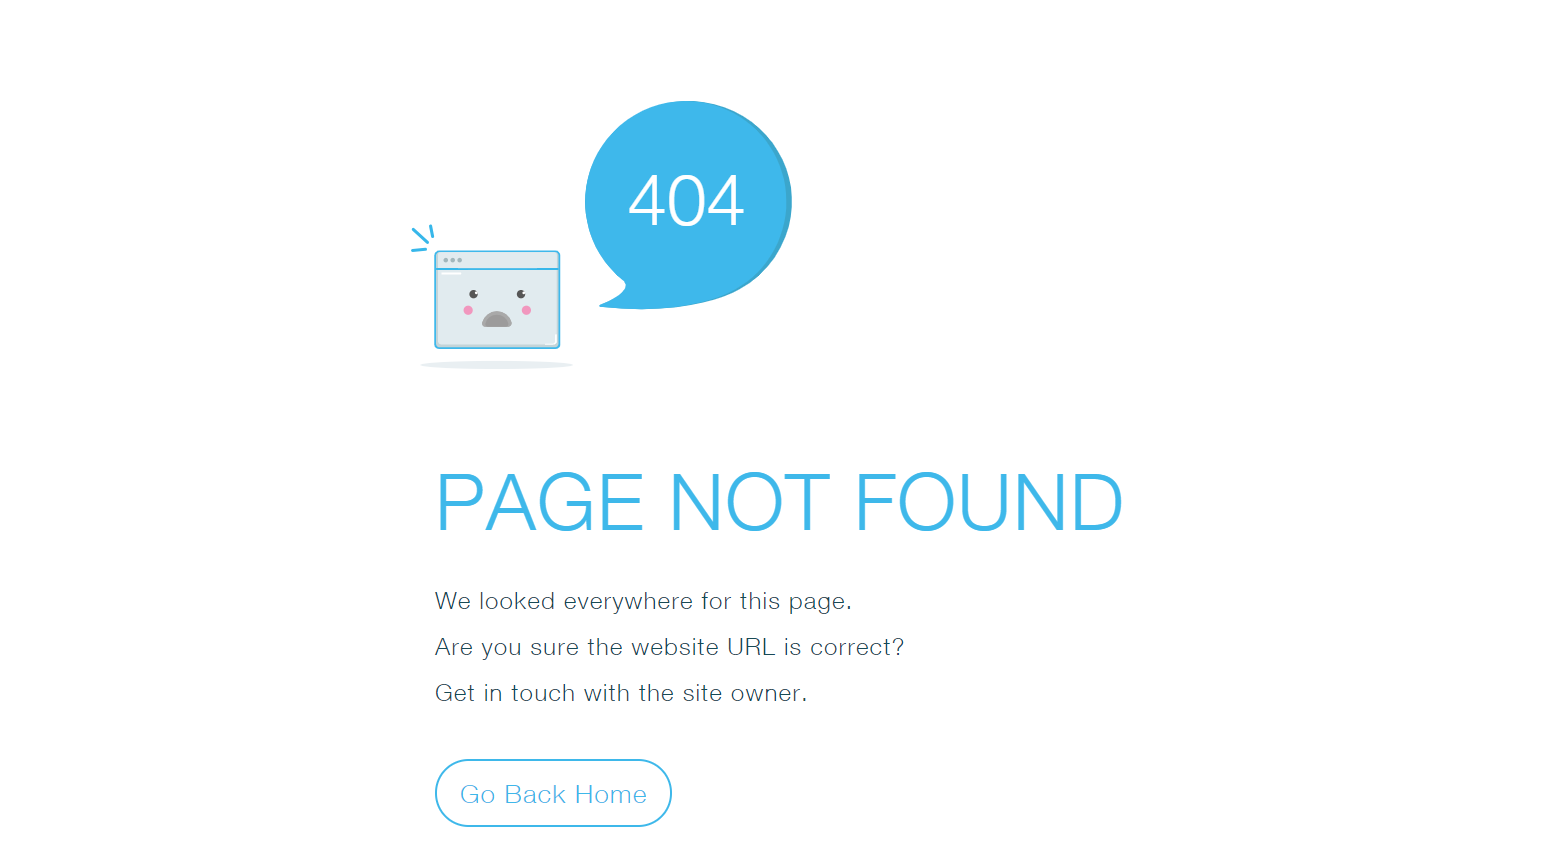
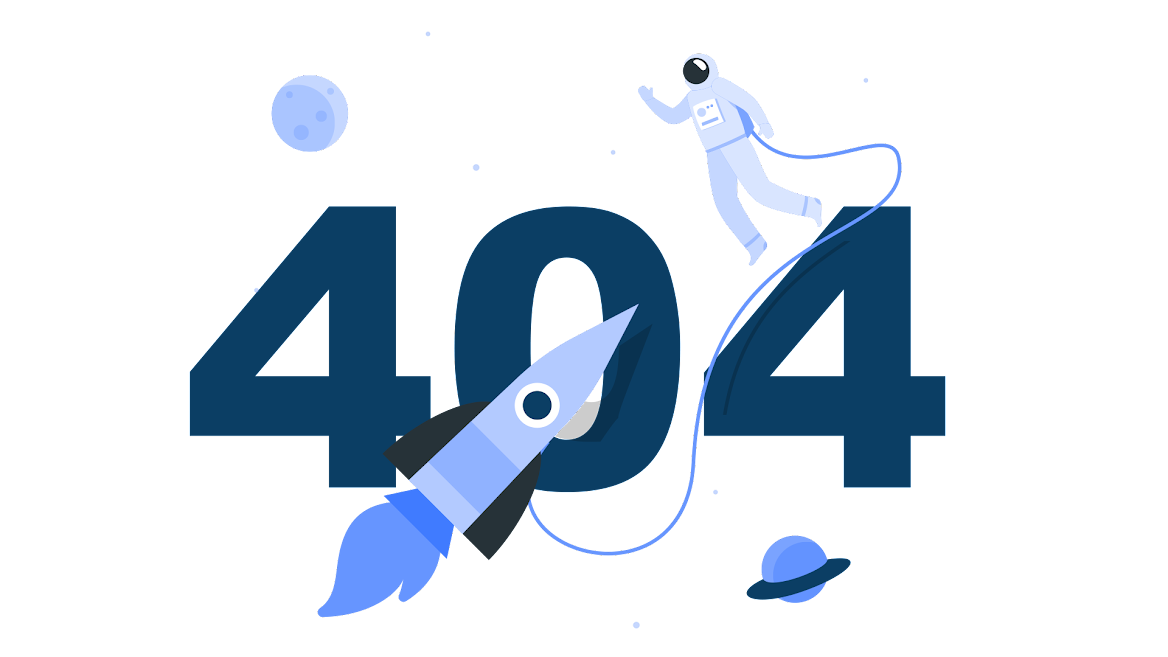
Code Optimization and Changes in Error page.

diff --git a/templates/admin/setting.html b/templates/admin/setting.html
@@ -166,20 +166,11 @@
                     </td>
                 </tr>
                 <tr>
-                    <td class="field-label">Google Tag Manager Header Key :</td>
+                    <td class="field-label">Google Tag Manager Key :</td>
                     <td colspan="2">
                         <label>
-                            <input style="width: 30em;" type="text" name="google_tag_manager_header_key"
-                                   value="{{ settings.google_tag_manager_header_key }}">
-                        </label>
-                    </td>
-                </tr>
-                <tr>
-                    <td class="field-label">Google Tag Manager Body Key :</td>
-                    <td colspan="2">
-                        <label>
-                            <input style="width: 30em;" type="text" name="google_tag_manager_body_key"
-                                   value="{{ settings.google_tag_manager_body_key }}">
+                            <input style="width: 30em;" type="text" name="google_tag_manager_key"
+                                   value="{{ settings.google_tag_manager_key }}">
                         </label>
                     </td>
                 </tr>

diff --git a/templates/layout.html b/templates/layout.html
@@ -24,7 +24,7 @@
 new Date().getTime(),event:'gtm.js'});var f=d.getElementsByTagName(s)[0],
 j=d.createElement(s),dl=l!='dataLayer'?'&l='+l:'';j.async=true;j.src=
 'https://www.googletagmanager.com/gtm.js?id='+i+dl;f.parentNode.insertBefore(j,f);
-})(window,document,'script','dataLayer','{{header_key.google_tag_manager_header_key}}');
+})(window,document,'script','dataLayer','{{header_key.google_tag_manager_key}}');
 
     </script>
     {% endfor %}
@@ -33,11 +33,11 @@ j=d.createElement(s),dl=l!='dataLayer'?'&l='+l:'';j.async=true;j.src=
 {% for body_key in settings %}
 <noscript>
     <iframe title="Google Tag Manager"
-            src="https://www.googletagmanager.com/ns.html?id={{body_key.google_tag_manager_body_key}}"
+            src="https://www.googletagmanager.com/ns.html?id={{body_key.google_tag_manager_key}}"
             height="0" width="0" style="display:none;visibility:hidden"></iframe>
 </noscript>
 {% endfor %}
-<div id="root">
+<div id="root" style="background:#ffffff;">
 
     <!--  Header -->
     <div class="header-wrapper header-transparent">

diff --git a/templates/view_service.html b/templates/view_service.html
@@ -37,13 +37,19 @@
     <div class="container">
         <div class="row">
             <div class="col-md-12">
-                <div class="custom-heading02 simple">
-                    <div class="text">
-                        {% for data in settings %}
-                        {{ data.common_service_content|safe }}
-                        {% endfor %}
-                    </div>
-                </div>
+                {% comment %}
+                             <div class="custom-heading02 simple">
+                                heading go here
+                            </div>
+                            <div class="statement">
+                                content wrapper
+                            </div>
+                {% endcomment %}
+                {% for data in settings %}
+                {{ data.common_service_content|safe }}
+                {% endfor %}
+
+
             </div>
         </div>
     </div>

diff --git a/templates/aboutus.html b/templates/aboutus.html
@@ -3,21 +3,20 @@
 
 <!-- Common Service Content -->
 <div class="page-content parallax parallax01 dark">
-    <div class="container">
-        <div class="row">
-            <div class="col-md-12">
+    <div class="container-fluid">
+
                 <div class="call-to-action clearfix">
-                    <div class="text">
+                    <div class="col-md-9">
                         {% for data in settings %}
                             {{ data.common_service_content|safe }}
                         {% endfor %}
                     </div>
-                    <a href="/contact-us" class="btn btn-big"><span>get a quote</span></a>
+                    <div class="col-md-3">
+                    <a href="/contact-us" class="btn btn-big"><span>get a quote</span></a></div>
                 </div>
             </div>
         </div>
-    </div>
-</div>
+
 
 <br/>
 <br/>

diff --git a/templates/error_page.html b/templates/error_page.html
@@ -2,9 +2,9 @@
 {% load static %}
 {% block content %}
 
-<div style="text-align:center; padding:10px;">
-    <h1 style="font-size:12.5em; display:inline-flex; align-items: center; color:#95c03d;" >4 <img style="padding:10px;" src="{% static '/assets/img/error.jpg' %}" height="auto" width="220px" alt=""> 4</h1>
-    <p style="font-size:1.5em; padding:20px;"> Oops! It seems you lost in island</p>
+<div style="text-align:center; padding:10px; background:#F7F7F7;">
+    <img style="padding:10px; display:inline-block; max-width: 50%;" src="{% static '/assets/img/error.png' %}" alt="">
+    <p style="font-size:1.5em; padding:20px;"> Oops! It seems you lost in space.</p>
     <a style="background: #95c03d;
         color: #fff;
         padding: 13px 22px;
@@ -17,5 +17,4 @@
         width: 225px;
         margin: 20px auto;" href="/">Go Back Home</a>
 </div>
-<br>
 {% endblock %}

diff --git a/templates/homepage.html b/templates/homepage.html
@@ -116,7 +116,7 @@
 </div>
 
 <!-- Services  -->
-<div class="page-content parallax parallax01 mb-70">
+<div class="page-content parallax parallax01">
     <div class="container">
         <div class="row services-negative-top">
 

diff --git a/templates/canada_jetline_cargo.html b/templates/canada_jetline_cargo.html
@@ -123,7 +123,7 @@
 </div>
 
 <!-- Table Content -->
-<div class="container">
+<div class="container" style="padding:20px;">
     <table class="fare-chart">
         <tr>
             <th scope="col">YYZ</th>

diff --git a/website/admin.py b/website/admin.py
@@ -115,8 +115,7 @@ class SettingAdmin(admin.ModelAdmin):
             instagram_url = request.POST['instagram_url']
             twitter_url = request.POST['twitter_url']
             common_service_content = request.POST['common_service_content']
-            google_tag_manager_header_key = request.POST['google_tag_manager_header_key']
-            google_tag_manager_body_key = request.POST['google_tag_manager_body_key']
+            google_tag_manager_key = request.POST['google_tag_manager_key']
 
             rows_count = Setting.objects.all().count()
             if rows_count != 0:
@@ -126,8 +125,7 @@ class SettingAdmin(admin.ModelAdmin):
                 settings.instagram_url = instagram_url
                 settings.twitter_url = twitter_url
                 settings.common_service_content = common_service_content
-                settings.google_tag_manager_header_key = google_tag_manager_header_key
-                settings.google_tag_manager_body_key = google_tag_manager_body_key
+                settings.google_tag_manager_key = google_tag_manager_key
                 settings.homepage_logo = request.FILES.get(
                     'homepage_logo') if 'homepage_logo' in request.FILES else settings.homepage_logo
                 settings.footer_logo = request.FILES.get(
@@ -142,8 +140,7 @@ class SettingAdmin(admin.ModelAdmin):
                 query_id = Setting(contact_address=contact_address, facebook_url=facebook_url,
                                    instagram_url=instagram_url, twitter_url=twitter_url,
                                    common_service_content=common_service_content,
-                                   google_tag_manager_header_key=google_tag_manager_header_key,
-                                   google_tag_manager_body_key=google_tag_manager_body_key, homepage_logo=homepage_logo,
+                                   google_tag_manager_key=google_tag_manager_key, homepage_logo=homepage_logo,
                                    footer_logo=footer_logo, fav_icon=fav_icon)
                 query_id.save()
 

diff --git a/website/views.py b/website/views.py
@@ -100,7 +100,7 @@ def query_form(request):
     logo = Menu.objects.filter(status="active")
     if request.method == "POST":
         contact_regex = re.compile(
-            r'(^(\+\d{1,2}\s)?\(?\d{3}\)?[\s.-]\d{3}[\s.-]\d{4}$)')
+            r'(^(\+\d{1,2}\s)?\(?\d{3}\)?[\s.-]?\d{3}[\s.-]?\d{4}$)')
 
         email_regex = re.compile(
             r"(^[a-zA-Z0-9_.+-]+@[a-zA-Z0-9-]+\.[a-zA-Z0-9-.]+$)")
@@ -126,9 +126,6 @@ def query_form(request):
         ''' End reCAPTCHA validation '''
 
         if result['success']:
-            # QueryForm(first_name=first_name, last_name=last_name, email=email, phone=phone, message=message)
-            print('New comment added with success!')
-
             if not re.fullmatch(contact_regex, phone):
                 messages.info(request, 'Invalid Phone')
             elif not re.fullmatch(email_regex, email):
@@ -139,7 +136,6 @@ def query_form(request):
                 query_id = QueryForm(first_name=first_name, last_name=last_name, email=email, phone=phone,
                                      message=message)
 
-                # if query_id.email_as_send:
                 send_mail(' Above & Beyond - Contact Form',
                           message,
                           email,

diff --git a/beyond_aviation/urls.py b/beyond_aviation/urls.py
@@ -10,15 +10,13 @@ Class-based views
     1. Add an import:  from other_app.views import Home
     2. Add a URL to urlpatterns:  path('', Home.as_view(), name='home')
 Including another URLconf
-    1. Import the include() function: from django.urls import include, path
+    1. Import include() function: from django.urls import include, path
     2. Add a URL to urlpatterns:  path('blog/', include('blog.urls'))
 """
 from django.conf import settings
-from django.conf.urls.static import static
 from django.contrib import admin
-from django.urls import path, include
+from django.urls import path, include, re_path
 from django.views.static import serve
-from django.urls import include, re_path
 
 admin.site.site_header = 'Go Above And Beyond'
 admin.site.site_title = 'Go Above And Beyond Admin Site'

diff --git a/website/migrations/0010_rename_google_tag_manager_body_key_setting_google_tag_manager_key_and_more.py b/website/migrations/0010_rename_google_tag_manager_body_key_setting_google_tag_manager_key_and_more.py
@@ -1,0 +1,22 @@
+# Generated by Django 4.1.5 on 2023-01-10 06:38
+
+from django.db import migrations
+
+
+class Migration(migrations.Migration):
+
+    dependencies = [
+        ('website', '0009_setting_google_tag_manager_body_key_and_more'),
+    ]
+
+    operations = [
+        migrations.RenameField(
+            model_name='setting',
+            old_name='google_tag_manager_body_key',
+            new_name='google_tag_manager_key',
+        ),
+        migrations.RemoveField(
+            model_name='setting',
+            name='google_tag_manager_header_key',
+        ),
+    ]

diff --git a/website/models.py b/website/models.py
@@ -178,8 +178,8 @@ class Setting(models.Model):
     footer_logo = models.ImageField(upload_to='FooterLogo', null=True, blank=True)
     fav_icon = models.ImageField(upload_to='FavIcon', null=True, blank=True)
     common_service_content = HTMLField(null=True, blank=True)
-    google_tag_manager_header_key = models.CharField(max_length=50, null=True)
-    google_tag_manager_body_key = models.CharField(max_length=50, null=True)
+    google_tag_manager_key = models.CharField(max_length=50, null=True)
+
 
     class Meta:
         db_table = "setting"
